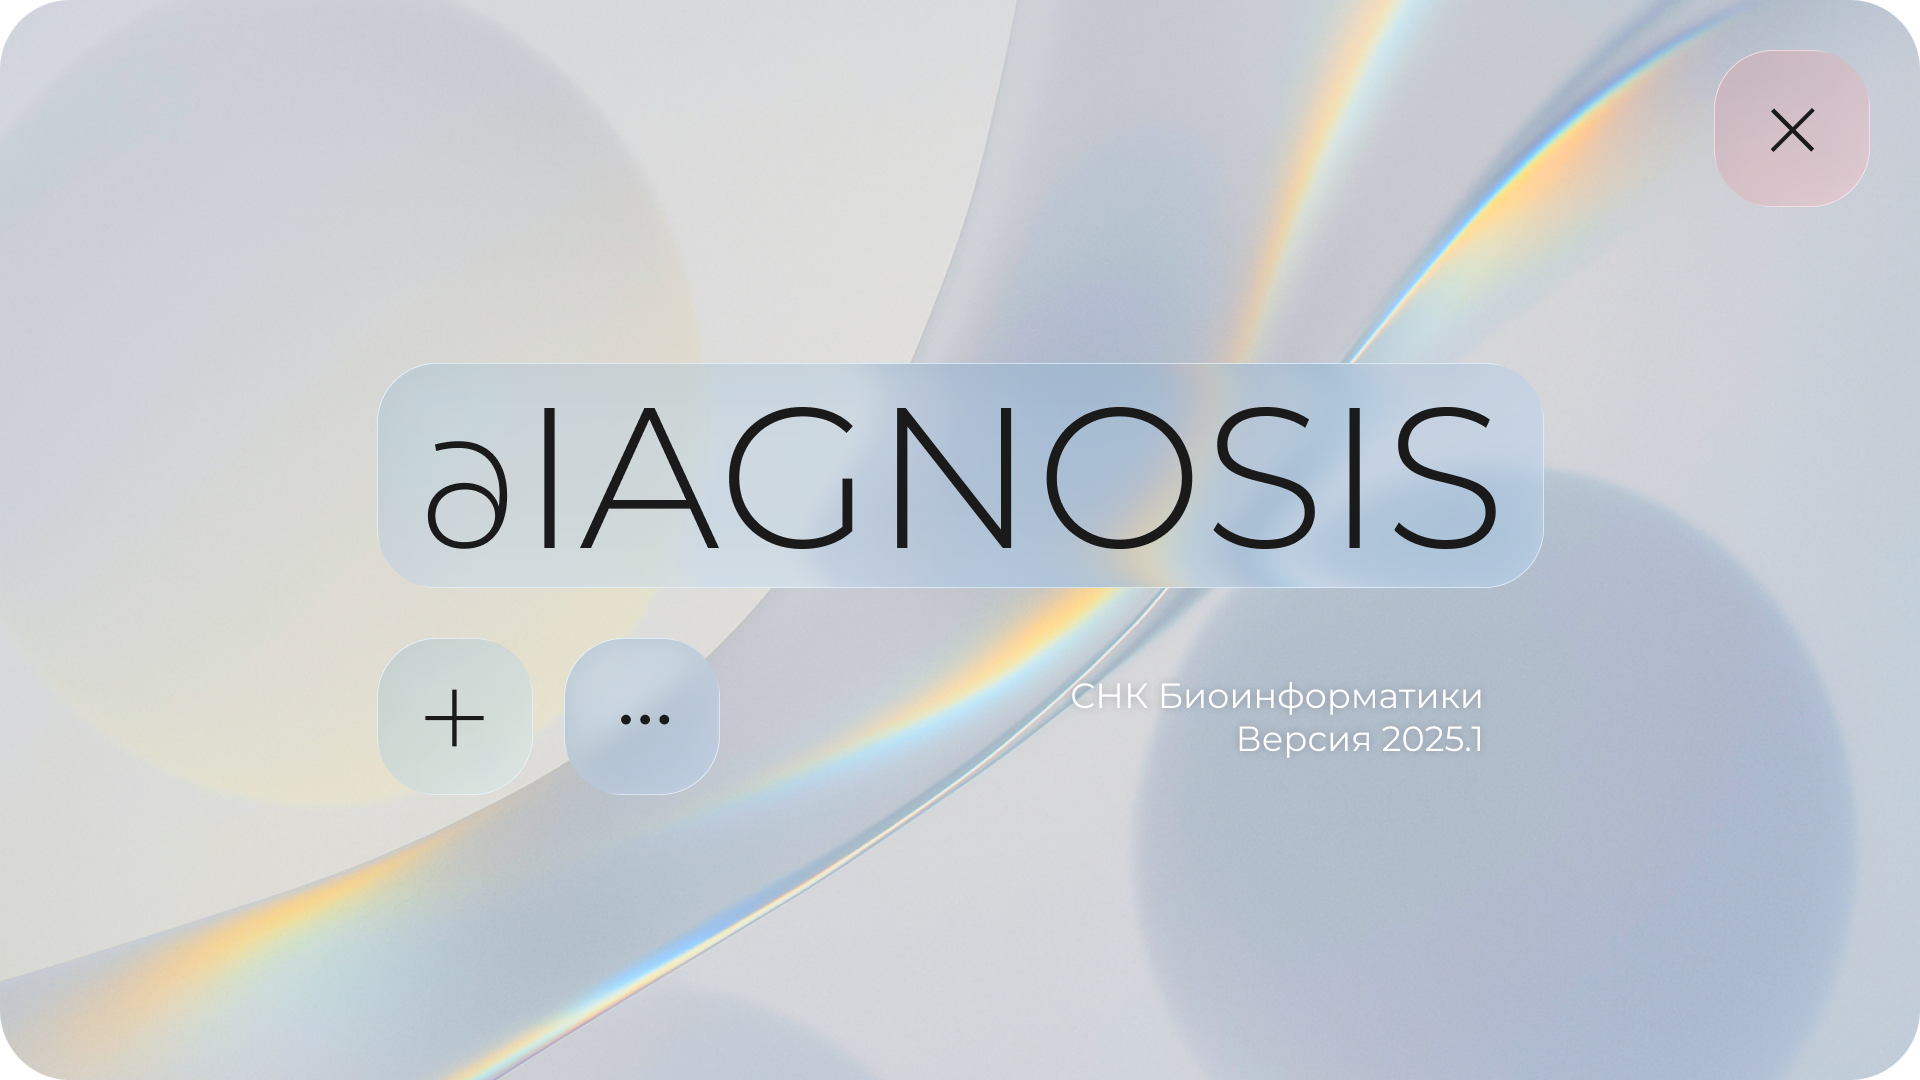
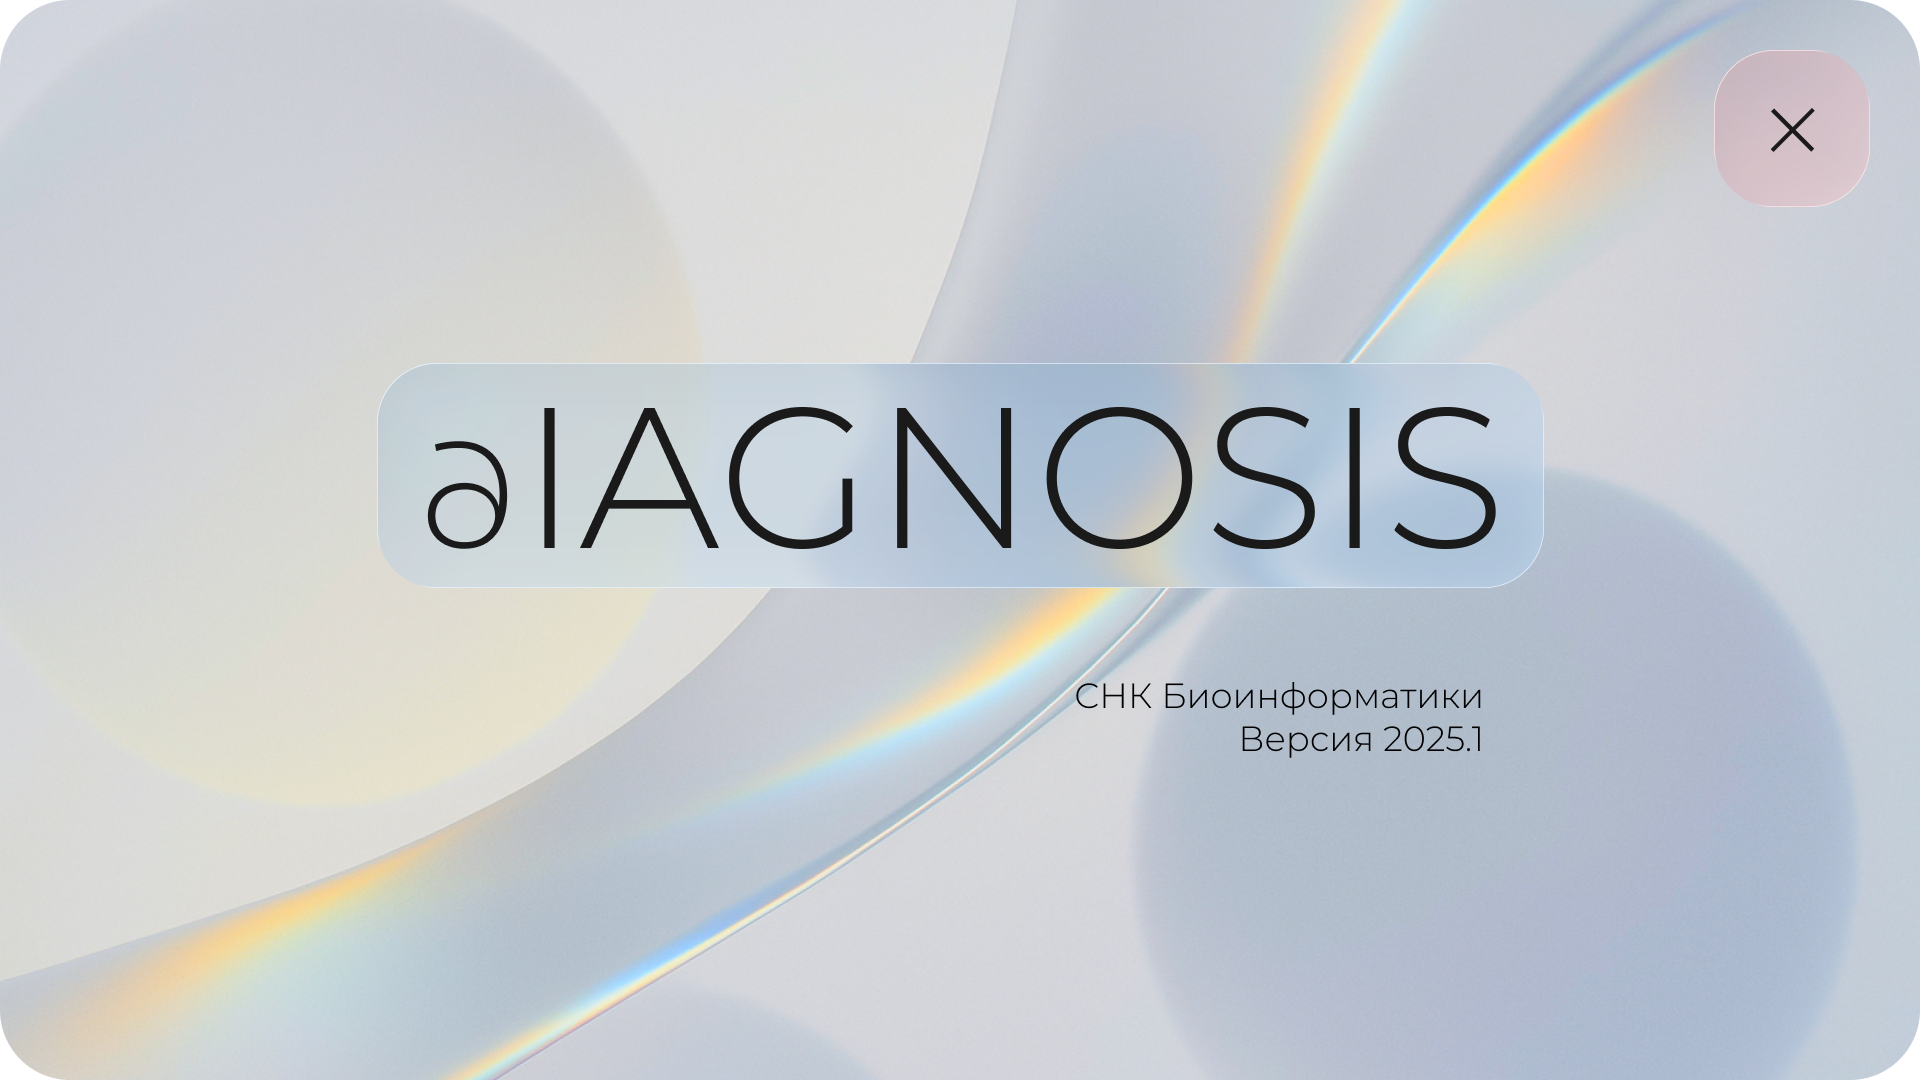
back

Changed region(s): [[0.5625, 0.6111, 0.7812, 0.7028], [0.2812, 0.5806, 0.375, 0.7028], [0.2188, 0.6417, 0.25, 0.6722]]

diff --git a/ui/main_window.py b/ui/main_window.py
@@ -20,8 +20,7 @@ from PySide6.QtWidgets import (
     QToolButton,
     QTabWidget,
     QVBoxLayout,
-    QWidget,
-    QWIDGETSIZE_MAX,
+    QWidget
 )
 
 try:
@@ -122,7 +121,7 @@ class MainWindow(QMainWindow):
             }
             """
         )
-        button_container.setFixedSize(520, 180)
+        button_container.setFixedSize(780, 700)
 
         close_button = QPushButton(button_container)
         close_button.setCursor(Qt.PointingHandCursor)
@@ -130,7 +129,7 @@ class MainWindow(QMainWindow):
         close_button.setToolTip("Закрыть")
         self._set_startup_button_icon(close_button, self._CLOSE_ICON_PATH)
         close_button.clicked.connect(self.close)
-        close_button.move(40, 60)
+        close_button.move(638, 0)
 
         create_button = QPushButton(button_container)
         create_button.setCursor(Qt.PointingHandCursor)
@@ -138,14 +137,14 @@ class MainWindow(QMainWindow):
         create_button.setToolTip("Создать проект")
         self._set_startup_button_icon(create_button, self._CREATE_ICON_PATH)
         create_button.clicked.connect(self._open_create_dialog)
-        create_button.move(200, 60)
+        create_button.move(103, 207)
 
         more_button = QPushButton(button_container)
         more_button.setCursor(Qt.PointingHandCursor)
         more_button.setFlat(True)
         more_button.setToolTip("Дополнительно")
         self._set_startup_button_icon(more_button, self._MORE_ICON_PATH)
-        more_button.move(360, 60)
+        more_button.move(178, 207)
 
         overlay_layout.addStretch()
         overlay_layout.addWidget(button_container, alignment=Qt.AlignHCenter)
